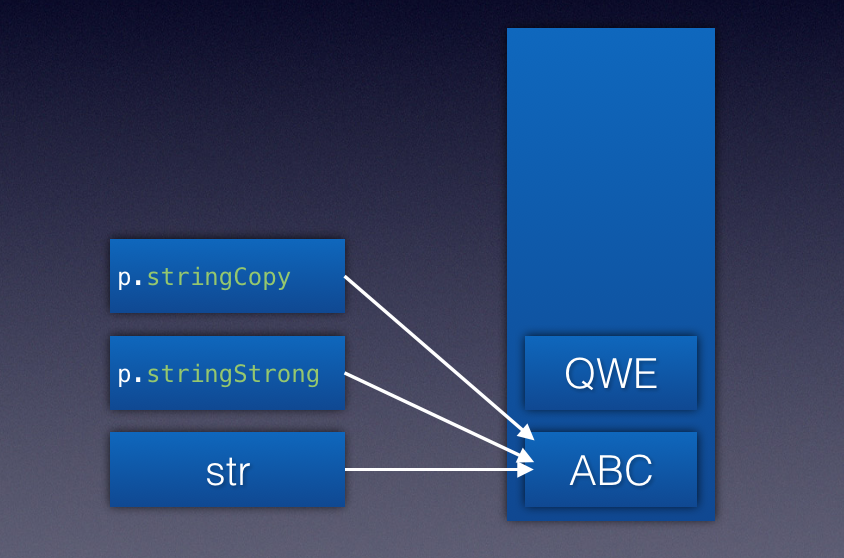
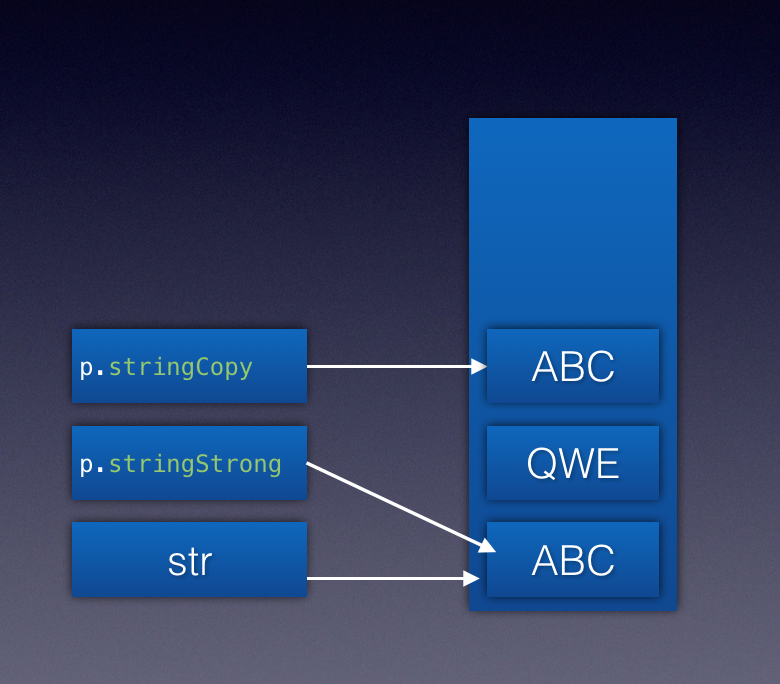
copy相关

Changed region(s): [[0.0923, 0.0305, 0.8923, 0.9444], [0.5231, 0.6398, 0.5846, 0.7312], [0.4923, 0.6093, 0.5231, 0.6398]]

diff --git a/_posts/2016-07-07-copy.md b/_posts/2016-07-07-copy.md
@@ -1,0 +1,58 @@
+---
+layout: post
+title: "关于copy"
+description: ""
+category: articles
+tags: [iOS]
+comments: true
+---
+
+## 前言
+
+这也是一个丢人的问题。真的清楚为什么要用copy么？
+
+## 讨论
+
+下面的代码输出什么？
+
+```objc
+NSString *str = @"ABC";
+    
+Person *p = [[Person alloc] init];
+p.stringStrong = str;
+p.stringCopy = str;
+    
+str = @"QWE";
+    
+NSLog(@"%@", p.stringStrong);
+NSLog(@"%@", p.stringCopy);
+```
+
+其实都是输出 `ABC` 。看图，考虑下内存的话很容易得出结果。虚线表示改变后的指针指向，不代表weak。
+
+![copy-1](https://lettleprince.github.io/images/20160707-copy/copy-1.png)
+![copy-2](https://lettleprince.github.io/images/20160707-copy/copy-2.png)
+
+## 延伸
+
+那岂不是跟copy和strong没区别了么？再看：
+
+```objc
+NSMutableString *str = [NSMutableString stringWithFormat:@"ABC"];
+    
+Person *p = [[Person alloc] init];
+p.stringStrong = str;
+p.stringCopy = str;
+    
+[str appendFormat:@"QWE"];
+    
+NSLog(@"%@", p.stringStrong);
+NSLog(@"%@", p.stringCopy);
+```
+
+输出为`ABCQWE`和`ABC`。还是看内存图：
+
+![copy-3](https://lettleprince.github.io/images/20160707-copy/copy-3.png)
+
+当之前的str为可变字符串的时候，由于strong修饰的stringStrong属性则不会分配新的内存，所以str后添加新字符串则stringStrong也被改变。所以最好使用copy修饰。当然，如果在赋值的时候能够很清楚的使用`p.stringStrong = [str copy];`，当然也不会出问题，但是谁能保证不会忘了copy呢。
+
